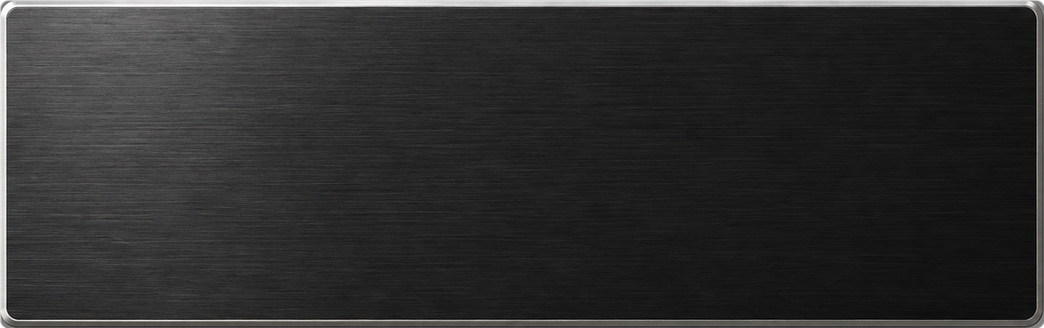
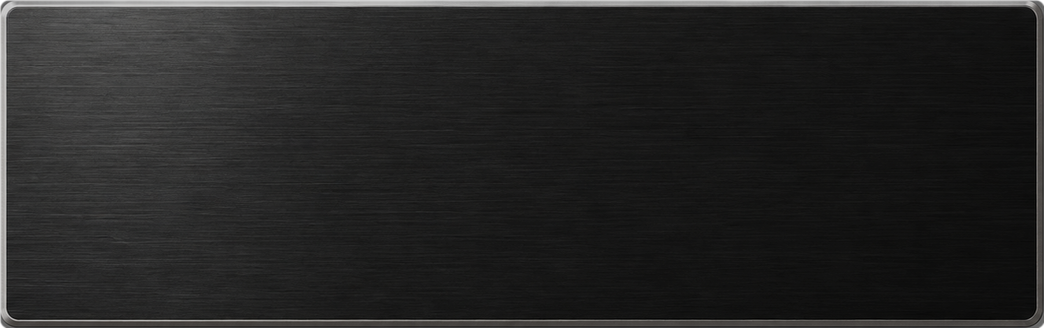
The name plate's light dialled back (R-LOOK)
The owner: "dial back the lighting effect of the badge a bit": the plate's picture at 80 %
(its chamfer and sheen), the lettering's lit edge at 0.1.

Changed region(s): [[0.0, 0.0, 1.0, 1.0], [0.9808, 0.9451, 1.0, 1.0], [0.8276, 0.9756, 0.8582, 1.0]]

diff --git a/crates/ca72-panel/src/art.rs b/crates/ca72-panel/src/art.rs
@@ -1434,7 +1434,7 @@ pub fn plate_worn() -> Layer {
     let mut over = Svg::default();
     let line = |s: &mut Svg, x: f64, y: f64, t: &str, size: f64, extra: &str| {
         for (dx, dy, fill, opacity) in [
-            (0.6, 0.7, "#ffffff", 0.16),
+            (0.6, 0.7, "#ffffff", 0.1),
             (-0.5, -0.6, "#000000", 0.75),
             (0.0, 0.0, PLATE_PAINT, 0.95),
         ] {

diff --git a/crates/ca72-panel/assets/worn/README.md b/crates/ca72-panel/assets/worn/README.md
@@ -75,7 +75,10 @@ everything else"). Generated by the same tool from `prompts/plate.txt`, blank an
 and to the left (it never turns); cut with a rounded rectangle (radius 9 of its 1462 by 376
 pixels) where its bounds are, not by a flood fill, which found its bright chamfer's grey in
 places; its ends (120 pixels each) kept and its brushed middle narrowed to the plate's 261 by
-82 units (the generator's was about 3.9 to 1), and resized to four pixels a unit. Another,
+82 units (the generator's was about 3.9 to 1), and resized to four pixels a unit; then its
+light dialled back (the owner: "dial back the lighting effect of the badge a bit"): every colour
+scaled to 80 % (`+level 0%,80%`), its bright chamfer and its sheen with it, the black face
+hardly changed. Another,
 black enamel in an aluminium rim, was generated and not used: it read as a licence plate.
 
 The generated originals, the masks, the runs' logs and the browser mock-up the owner chose from
